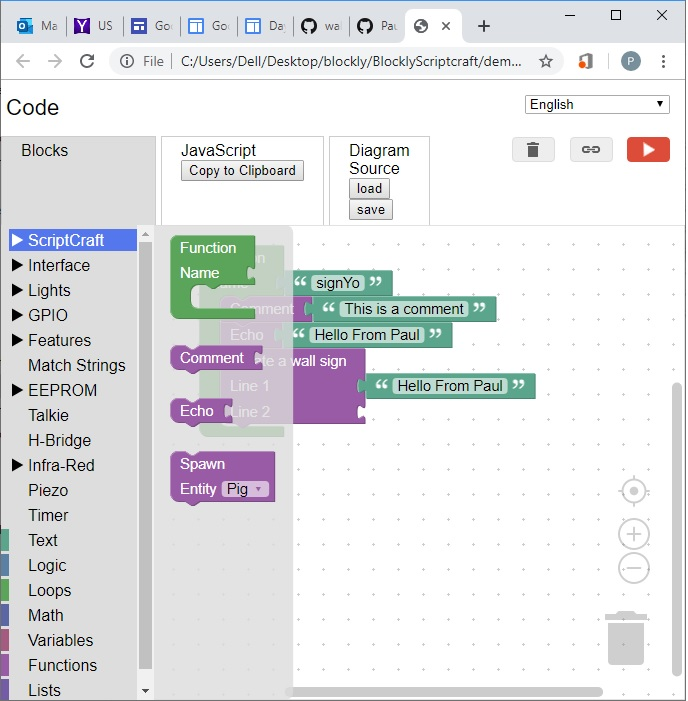
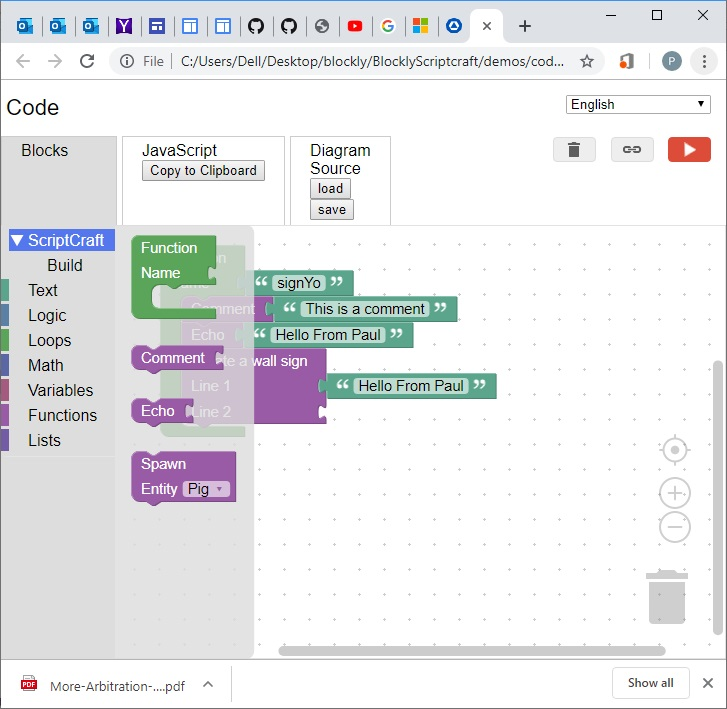
Change screen shot

Changed region(s): [[0.0, 0.0, 1.0, 1.0], [0.8852, 0.0, 0.9157, 0.03]]

diff --git a/demos/code/index.html b/demos/code/index.html
@@ -145,135 +145,7 @@
         <block type="sign"></block>
         <block type="wallsign"></block>
       </category>    
-    </category>
-    <!category name="ArduinoSetup">  
-      <!block type="setuploop"><!/block>
-      <!block type="statement"><!/block>
-      <!block type="lineentered"><!/block>
-    <!/category>  
-  <category name="Interface">
-     <category name="Button">
-       <block type="ispressed"></block>
-       <block type="isreleased"></block>
-     </category>    
-     <category name="PS2 Wireless Controller">
-        <block type="ps2init"></block>
-        <block type="ps2yaction"></block>
-        <block type="ps2fire"></block>
-        <block type="buttonpressed"></block>
-     </category>
-     <category name="Joy Stick">
-        <block type="joysticksetup"></block>
-        <block type="joystickbutton"></block>
-        <block type="joystickx"></block>        
-        <block type="joysticky"></block>
-     </category>
-     <category name="Nrf24l01">
-        <block type="nrf24l01setup"></block>
-        <block type="nrf24l01available"></block>
-        <block type="nrf24l01rx"></block>
-        <block type="nrf24l01tx"></block>
-     </category>
-     <category name="WII Nunchuk">
-         <block type="nunchukreadbutton"></block>
-         <block type="nunchukjoystickx"></block>
-         <block type="nunchukjoysticky"></block>
-         <block type="nunchukjoystickreleased"></block>
-     </category>   
-     <category name="Small Display">
-       <block type="displaywrite"></block>
-       <block type="displayclear"></block>
-     </category>     
-     <category name="RF 433">
-         <block type="rf433tx"></block>
-         <block type="rf433rx"></block>
-         <block type="rf433rxready"></block>
-     </category>     
-  </category>
-  <category name="Lights">
-    <category name="Pixels">
-      <block type="pixelsetup"></block>
-      <block type="pixelcolor"></block>
-      <block type="pixelblink"></block>
-      <block type="pixelscan"></block>
-      <block type="pixelminus"></block>
-      <block type="pixelplus"></block>
-    </category>
-    <category name="LED">
-      <block type="connectled"></block>
-      <block type="settricolor"></block>
-      <block type="flashcolor"></block>
-      <block type="nextcolor"></block>
-      <block type="currentcolor"></block>
-      <block type="cyclecolors"></block>
-      <block type="stopcyclecolors"></block>
-    </category>  
-    <category name="Health Ring">
-      <block type="connectring"></block>
-      <block type="sethealth"></block>
-    </category>    
-  </category>  
-  <category name="GPIO">
-     <category name="Digital Output">
-       <block type="digitalwrite"></block>     
-     </category>
-     <category name="Digital Read">
-       <block type="digitalread"></block>     
-     </category>
-     <category name="Analog Input">
-     </category>
-  </category> 
-  <category name="Features">
-    <category name="Pipboy">
-      <block type="pipboy"></block>
-      <block type="pipboyeeprom"></block>
-    </category>
-  </category>
-  <category name="Match Strings">
-    <block type="matchstring"></block>     
-    <block type="connectstream"></block>
-  </category>
-  <category name="EEPROM">
-    <category name="Read">
-       <block type="readeeprom"></block> 
-       <block type="readeepromrange"></block> 
-    </category>
-    <category name="Write">
-       <block type="writeeeprom"></block>    
-    </category>
-  </category>
-  <category name="Talkie">
-      <block type="talkie"></block>
-      <block type="speaknumber"></block> 
-      <block type="speakalphabet"></block>      
-  </category>
-  <category name="H-Bridge">
-    <block type="motormove"></block>
-  </category>
-
-  <category name="Infra-Red">
-    <category name="Receive">
-      <block type="irdetected"></block>
-      <block type="showlastirvalue"></block>
-    </category>
-    <category name="Transmit">
-      <block type="fireshot"></block>
-      <block type="createfirepulse"></block>
-      <block type="infrared"></block>
-      <block type="simpleinfrared"></block>
-    </category>
- </category>
-  <category name="Piezo">
-    <block type="makesound"></block>
-    <block type="stopsound"></block>
-  </category>  
-  <category name="Timer">
-    <block type="starttimer"></block>
-    <block type="timerexpired"></block>
-    <block type="resettimer"></block>
-    <block type="timerisactive"></block>
-    <block type="wait"></block>
-  </category>
+    </category> 
     <category name="{catText}" colour="160">
       <block type="text"></block>
       <block type="charpressed"></block>      
